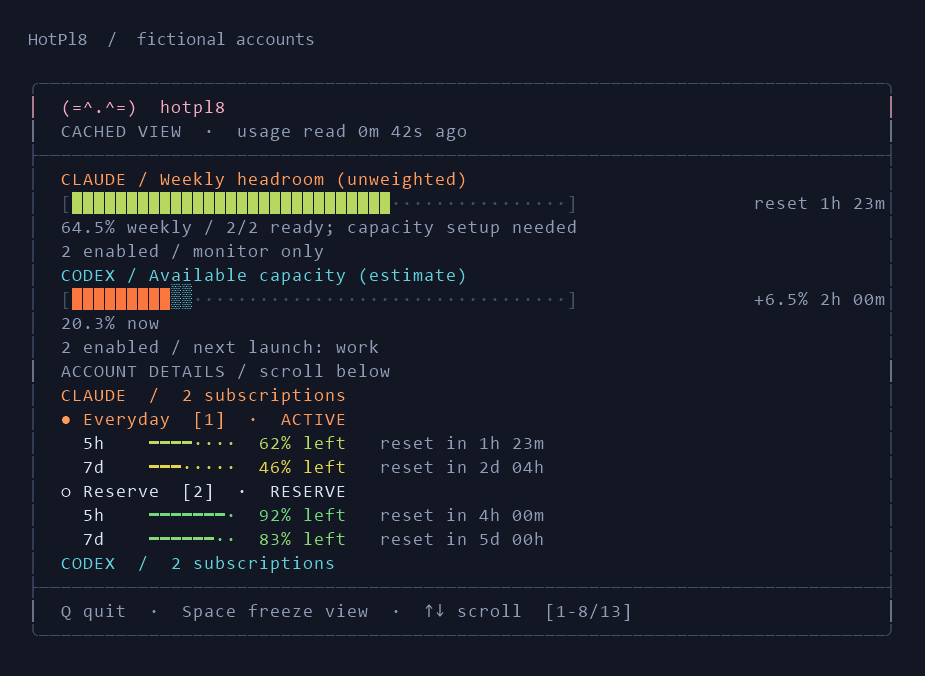
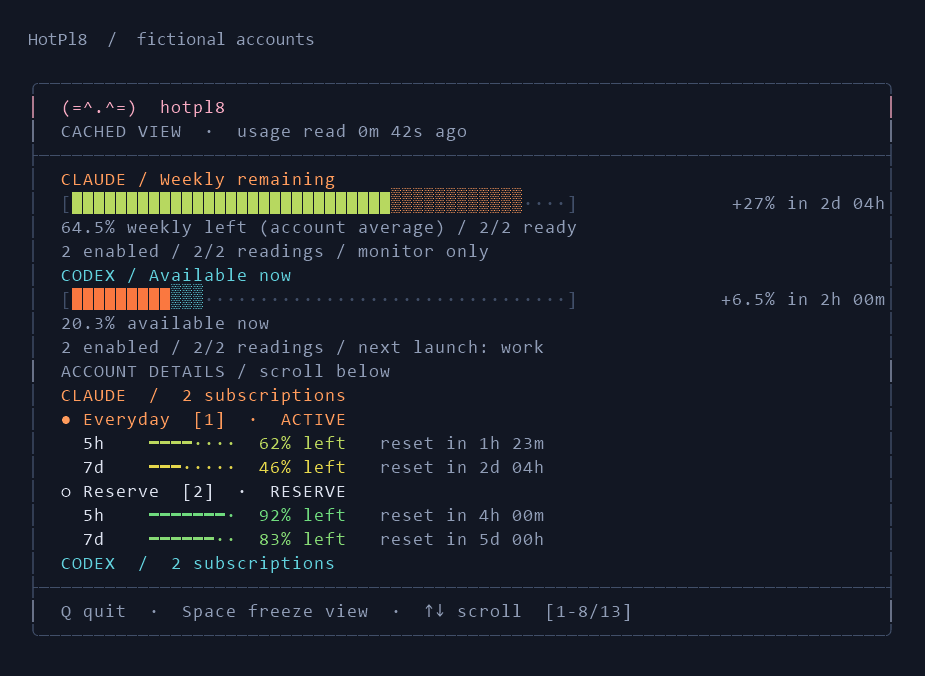
Clarify refill bars and prevent Claude polling gaps

diff --git a/docs/capacity.md b/docs/capacity.md
@@ -2,7 +2,7 @@
 
 HotPl8 has one layered bar per provider. The full track is the combined weekly allowance of enabled unique subscriptions. The solid foreground is estimated usable allowance under current limits and routing policy. The patterned extension is the additional allowance expected at the next confirmed reset, assuming no further consumption. The right-hand countdown refers to that reset. A reset still blocked by another limit adds zero. The clock reaching zero never turns a projection into measured capacity.
 
-Account details retain raw quota percentages. Unknown readings and missing conversion factors remain visible. A paused/held/manual Claude configuration can leave allowance on other accounts outside the solid routed amount. Codex availability applies to a new launch; existing sessions retain their native account.
+Account details retain raw quota percentages. The heading is **Available now** when relative capacities can be calculated. Otherwise **Weekly remaining** shows the equal-account weekly average and projects only a weekly reset, without claiming immediately usable compute. Unknown readings appear as a partial-coverage message, never as hatching at the end of the bar. Hatching is reserved for the contiguous refill extension. A paused/held/manual Claude configuration can leave allowance on other accounts outside the solid routed amount. Codex availability applies to a new launch; existing sessions retain their native account.
 
 A fresh, explicitly blocked Codex account with a measured zero contributes zero usable allowance and keeps its weight in the total. It does not turn the other subscriptions' readings into unknown data. The reset countdown can still be shown, but projected gain stays unknown until a later observation clears the block: a quota reset does not necessarily remove a spend or account restriction. Stale readings and unknown provider constraints remain unknown.
 
@@ -18,7 +18,7 @@ Detecting a tier is different from measuring its window capacities. Anthropic pu
 
 Without capacity conversions, the dashboard falls back to **Weekly headroom (unweighted)** when native weekly readings are available. That bar is an equal-account average, accompanied by the number of ready accounts; it does not claim immediately usable compute or forecast a gain. Missing observations remain shaded. Every provider shows enabled membership and any disabled or duplicate exclusions; Codex also shows the next-launch target. An exhausted enabled subscription contributes zero while retaining its weight. A disabled subscription is excluded, so the remaining account's percentage is not the combined budget of both subscriptions.
 
-Prices and percentages are not interchangeable units. The [profile catalogue](../data/capacity-profiles.json) records published tier names and session multipliers with sources. Published session multipliers alone do not establish weekly totals or the conversion between five-hour and weekly windows. Until these are configured, HotPl8 shows quota readings and a capacity-setup message. A single weekly-only Codex account can be normalized without comparing tiers.
+Prices and percentages are not interchangeable units. The [profile catalogue](../data/capacity-profiles.json) records published tier names and session multipliers with sources. Published session multipliers alone do not establish weekly totals or the conversion between five-hour and weekly windows. Until these are configured, HotPl8 shows the weekly account average and per-account quota readings. A single weekly-only Codex account can be normalized without comparing tiers.
 
 Choose a profile and supply calibrated relative capacities through an account operation:
 
@@ -59,7 +59,7 @@ The Windows collector wakes once per minute and checks persisted per-provider du
 
 Provider accents: Claude orange and Codex cyan. Budget fills transition green, yellow, orange and red. Below 10%, a small critical marker pulses red/pale white; stale or unknown values do not pulse. Disable motion with `hotpl8 -ReducedMotion`, `HOTPL8_REDUCED_MOTION=1`, or `display.reducedMotion` in policy. `-NoColor`, `NO_COLOR`, or `display.noColor` suppresses color; redirected output is a single static frame.
 
-`hotpl8 nyan` opens the dashboard with a compact Nyan Cat animation from the existing terminal project. It is silent, uses bundled data and sends no requests. The standard cat occasionally blinks or moves its tail. [Animation attribution and license](../THIRD_PARTY_NOTICES.md). Small terminals use a static compact header. Both modes retain normal quit, scrolling and freeze controls.
+`hotpl8 nyan` opens the dashboard with a compact Nyan Cat animation from the existing terminal project. It is silent, uses bundled data and sends no requests. The standard cat occasionally blinks. [Animation attribution and license](../THIRD_PARTY_NOTICES.md). Small terminals use a static compact header. Both modes retain normal quit, scrolling and freeze controls.
 
 ## Preview before merge
 

diff --git a/docs/provider-overview.md b/docs/provider-overview.md
@@ -2,7 +2,9 @@
 
 The pinned overview shows a layered capacity bar for Claude and another for Codex. Each combines a full weekly-capacity track, solid usable-now allowance and a patterned next-reset projection. The countdown is on the right. Scroll below for per-account readings, resets and warming outcomes.
 
-Capacity is a weighted estimate in common units, not an equal-account average or a guaranteed token budget. Missing capacity profiles/conversions and unavailable readings remain visible. A next-reset projection assumes no further consumption; passing a reset time does not refill the solid bar without a fresh observation. [How to configure capacity, critical mode and motion](capacity.md).
+**Available now** uses configured relative allowances and current limits. It remains an estimate, not a guaranteed token count. When the conversions between weekly and short limits are missing, **Weekly remaining** shows the average weekly percentage per account instead. This fallback counts each account equally, regardless of tier; its countdown and patterned refill refer only to the next weekly reset. Short limits still determine the separate ready-account count.
+
+The pattern always touches the solid fill and means additional allowance at the indicated reset. Missing readings are reported as `Partial: 2/3 readings; total unavailable`, never as a patterned region. Partial fill includes only the measured share of the full account set; it is not the total remaining balance. No refill amount is projected from incomplete evidence. A plain `reset in` countdown without a percentage means the refill amount is unknown. Projections assume no further consumption; passing a reset time does not refill the solid bar without a fresh observation. [How to configure capacity, critical mode and motion](capacity.md).
 
 The dashboard, CLI, JSON and tray share the same pure computation using current policy and cached evidence. The compatibility normalized-weekly-headroom fields are retained separately from the new capacity metric. Codex's unconfirmed reset anchors restrict projections, not otherwise valid current quota percentages. Automatic Codex warming remains unavailable; weekly-only accounts report warming as not applicable.
 

diff --git a/docs/troubleshooting.md b/docs/troubleshooting.md
@@ -18,6 +18,12 @@ Start with `hotpl8 doctor -AsJson`. It is offline and redacted. Run `hotpl8 refr
 
 Events rotate at 256 KiB to one backup. State, labels, native homes, quota observations, and credential-generation logs are private. Share redacted doctor output rather than a ZIP of the installation. See [SECURITY.md](../SECURITY.md) for sensitive reports.
 
+## Claude intermittently drops a reading
+
+Claude's adapter schedules idle usage reads about ten minutes apart, with jitter. HotPl8 observes that adapter each minute; the adapter still owns API polling, locks and rate-limit backoff. Older HotPl8 builds added another five-minute cache delay, which could push a healthy reading past the fifteen-minute freshness cutoff. Update both the source preview and the installed collector to obtain this fix. Older manually configured five-minute tasks must also use a one-minute interval; keep one collector for each state directory. The supported installer already uses that interval.
+
+If a reading still expires, account details show its age and the overview identifies incomplete coverage. Enrollment is retained. Check `hotpl8 explain` for provider failures and `hotpl8 doctor` for a missing or stalled scheduler. Provider throttling, offline machines and expired authorization can still prevent fresh readings; HotPl8 must not turn those into a full balance or select stale accounts. Re-login is needed only when native account status indicates an authentication problem.
+
 ## Codex quota disappeared after a collection error
 
 Update to a build containing the sparse-cache recovery fix. Failed collection retains old account evidence as unavailable and clears recommendations. During backoff, skipped wakes do not extend the deadline. `failureStage` and `failureCode` in provider status distinguish safe error categories; native error messages are not exported. A successful quota read and unsupported warming are separate conditions. A secondary unknown meter does not invalidate the selected meter.

diff --git a/docs/install.md b/docs/install.md
@@ -33,7 +33,7 @@ On refresh, supported cswap installations automatically detect Claude plan names
 
 ## Background collection
 
-Rerun the installer from the extracted release with `-Schedule`. It registers one hidden, unelevated task that wakes every minute for the signed-in user; persisted due times normally collect every five minutes and can shorten in critical mode. Repeated installation updates the owned task. It does not run while the user is signed out. Monitoring policy remains observation-only.
+Rerun the installer from the extracted release with `-Schedule`. It registers one hidden, unelevated task that wakes every minute for the signed-in user. Claude's adapter is observed on every healthy wake and manages its own API polling cadence. Codex normally collects every five minutes and can shorten in critical mode. Provider failures retain bounded backoff. Repeated installation updates the owned task. It does not run while the user is signed out. Monitoring policy remains observation-only.
 
 A source checkout is also portable: run `powershell -NoProfile -ExecutionPolicy Bypass -File .\hotpl8.ps1 init`, enroll accounts, then use the same command with `refresh` in place of `init`. Source checkout state defaults to that directory. An explicit `-StateDirectory` overrides `HOTPL8_STATE_DIRECTORY`, which overrides the installed binding or portable default.
 

diff --git a/CHANGELOG.md b/CHANGELOG.md
@@ -2,6 +2,8 @@
 
 ## Unreleased
 
+- Observe Claude's adapter every scheduler minute so its native poll cadence does not compound with a second cache delay. Preserve freshness and backoff limits. Simplify overview labels, reserve hatching for attached refill projections, align weekly fallback projections with weekly resets, and remove the disappearing cat tail.
+
 - Detect Claude subscription plans automatically using identity-verified profile metadata, with bounded retries, private caching and explicit handling of unknown tiers. Surface detected plans in dashboard/JSON/text/tray and prefer configured capacity overrides.
 
 - Unified Claude and Codex weekly-headroom overview with pinned summaries and scrollable account details. Shared CLI/tray summaries show partial coverage, reserves, readiness and automation state without treating percentages as absolute capacity.
